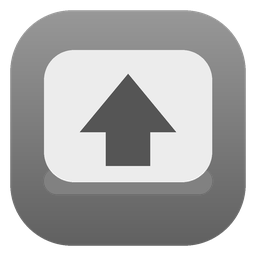
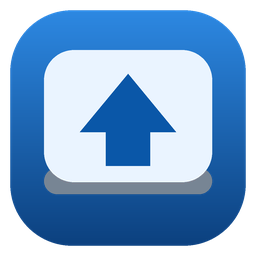
make_icons.py: the screenshot copy is the blue variant's, not whichever ran last
Running --variant off overwrote openrtlinux-screenshot.png with the grey tile, so the
file that stands in for a screenshot changed colour depending on the order the two
variants were generated in.

diff --git a/packaging/linux/make_icons.py b/packaging/linux/make_icons.py
@@ -161,9 +161,9 @@ def main() -> int:
         tile(size, colors, cap, lip, arrow).save(target)
         written.append(target)
     # some launchers only ask for one PNG, and the README shows one
-    extras = [out / f"{name}.png", out / "openrtlinux-screenshot.png"]
+    extras = [out / f"{name}.png"]
     if on:
-        extras.append(ROOT / "docs" / "img" / "icon.png")
+        extras += [out / "openrtlinux-screenshot.png", ROOT / "docs" / "img" / "icon.png"]
     for extra in extras:
         extra.parent.mkdir(parents=True, exist_ok=True)
         tile(256, colors, cap, lip, arrow).save(extra)
